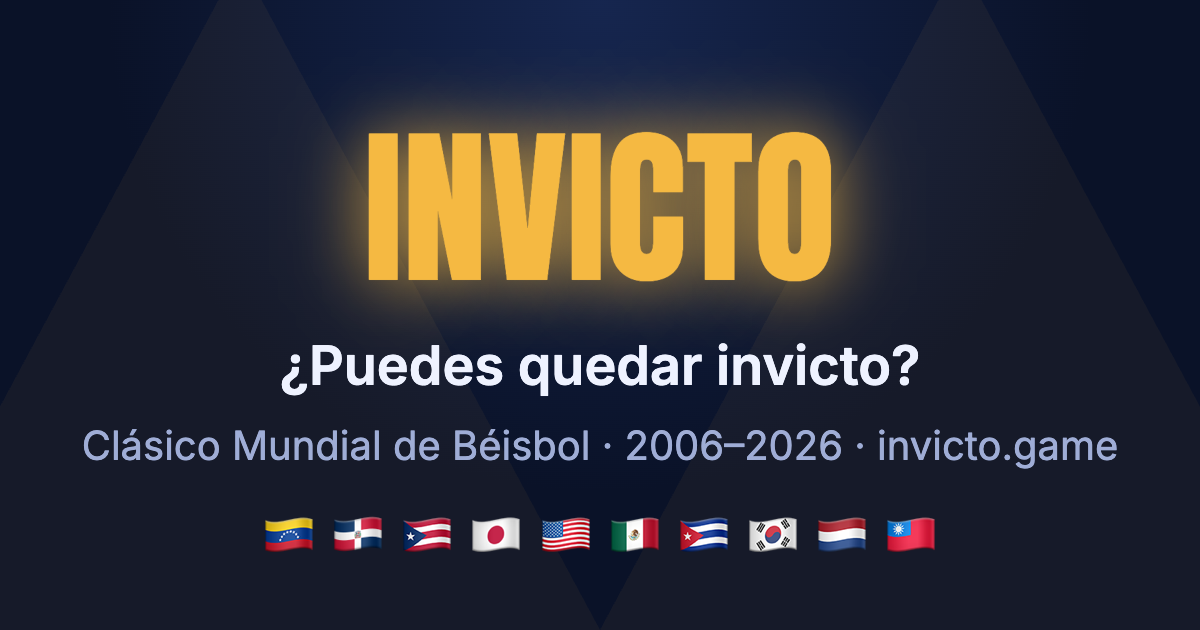
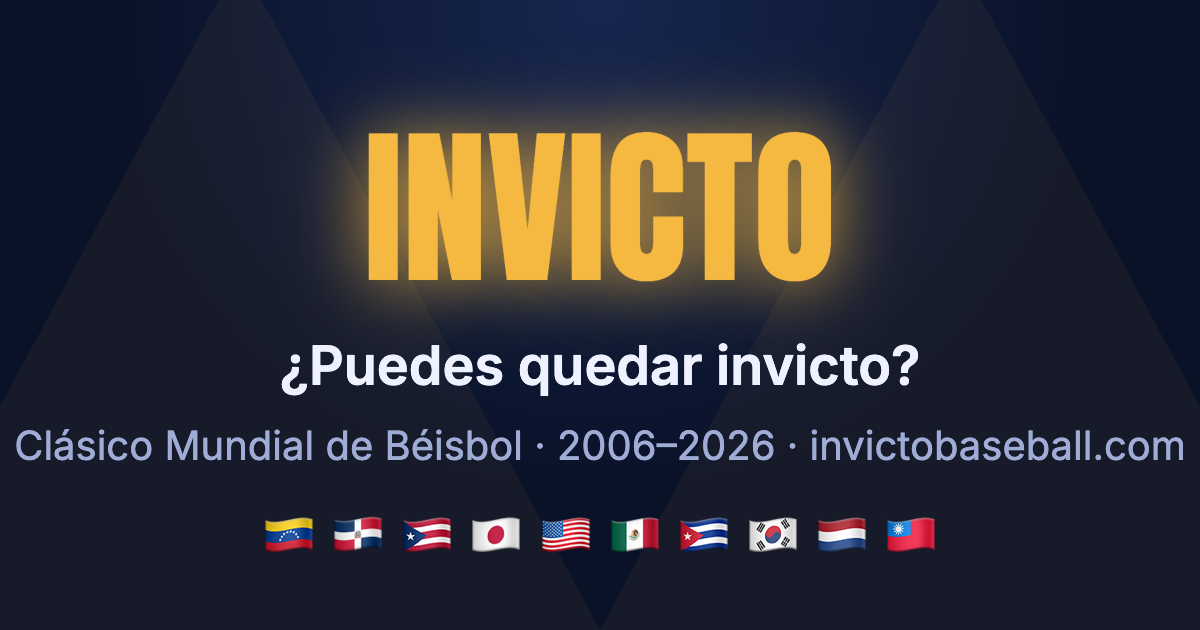
Domain: invictobaseball.com everywhere
Share card URL in all four languages, absolute og:image/twitter:image
URLs (scrapers require absolute), canonical link, JSON-LD url, and the
og.png regenerated with the new domain. invicto7-0.com will be a
registrar-level redirect alias.

Changed region(s): [[0.0, 0.6635, 0.9867, 0.754]]

diff --git a/index.html b/index.html
@@ -17,12 +17,13 @@
       property="og:description"
       content="Arma tu lineup con rosters reales del Clásico Mundial de Béisbol (2006–2026) y trata de ganar el torneo 7-0."
     />
-    <meta property="og:image" content="/og.png" />
-    <meta property="og:url" content="https://invicto.game/" />
+    <meta property="og:image" content="https://invictobaseball.com/og.png" />
+    <meta property="og:url" content="https://invictobaseball.com/" />
+    <link rel="canonical" href="https://invictobaseball.com/" />
     <meta name="twitter:card" content="summary_large_image" />
     <meta name="twitter:title" content="Invicto — ¿Puedes quedar invicto?" />
     <meta name="twitter:description" content="Rosters reales del Clásico Mundial 2006–2026. Arma tu lineup. Gana 7-0." />
-    <meta name="twitter:image" content="/og.png" />
+    <meta name="twitter:image" content="https://invictobaseball.com/og.png" />
     <link rel="preconnect" href="https://fonts.googleapis.com" />
     <link rel="preconnect" href="https://fonts.gstatic.com" crossorigin />
     <link
@@ -35,7 +36,7 @@
         "@context": "https://schema.org",
         "@type": "VideoGame",
         "name": "Invicto",
-        "url": "https://invicto.game/",
+        "url": "https://invictobaseball.com/",
         "description": "Draft a lineup from real World Baseball Classic rosters (2006–2026) and try to win the tournament 7-0.",
         "inLanguage": ["es", "en"],
         "genre": "Sports game",

diff --git a/scripts/generate-og.html b/scripts/generate-og.html
@@ -23,7 +23,7 @@
       drawOgPoster(canvas, {
         brand: 'INVICTO',
         tagline: '¿Puedes quedar invicto?',
-        subline: 'Clásico Mundial de Béisbol · 2006–2026 · invicto.game',
+        subline: 'Clásico Mundial de Béisbol · 2006–2026 · invictobaseball.com',
       });
       const url = canvas.toDataURL('image/png');
       document.getElementById('dl').href = url;
